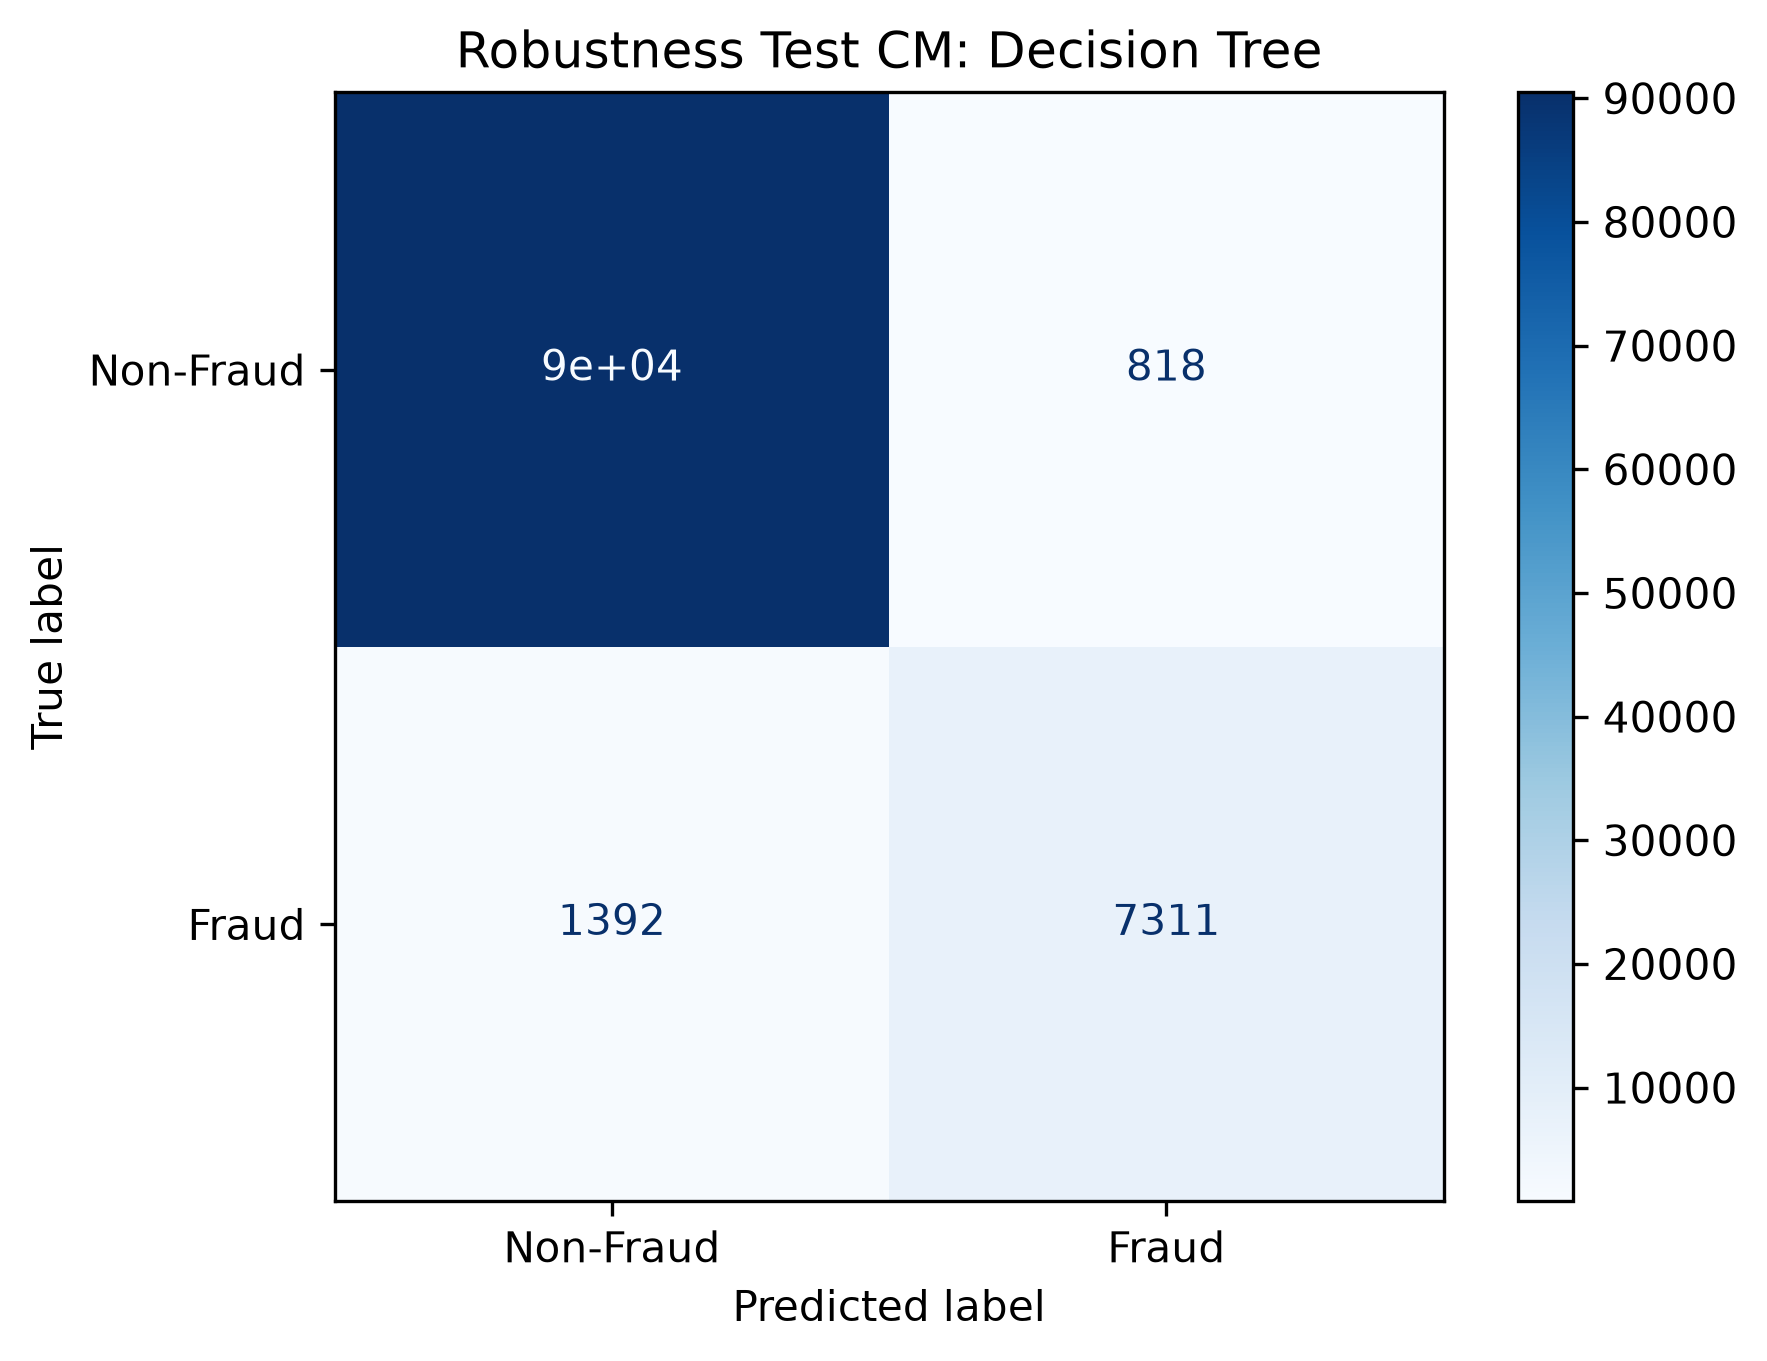
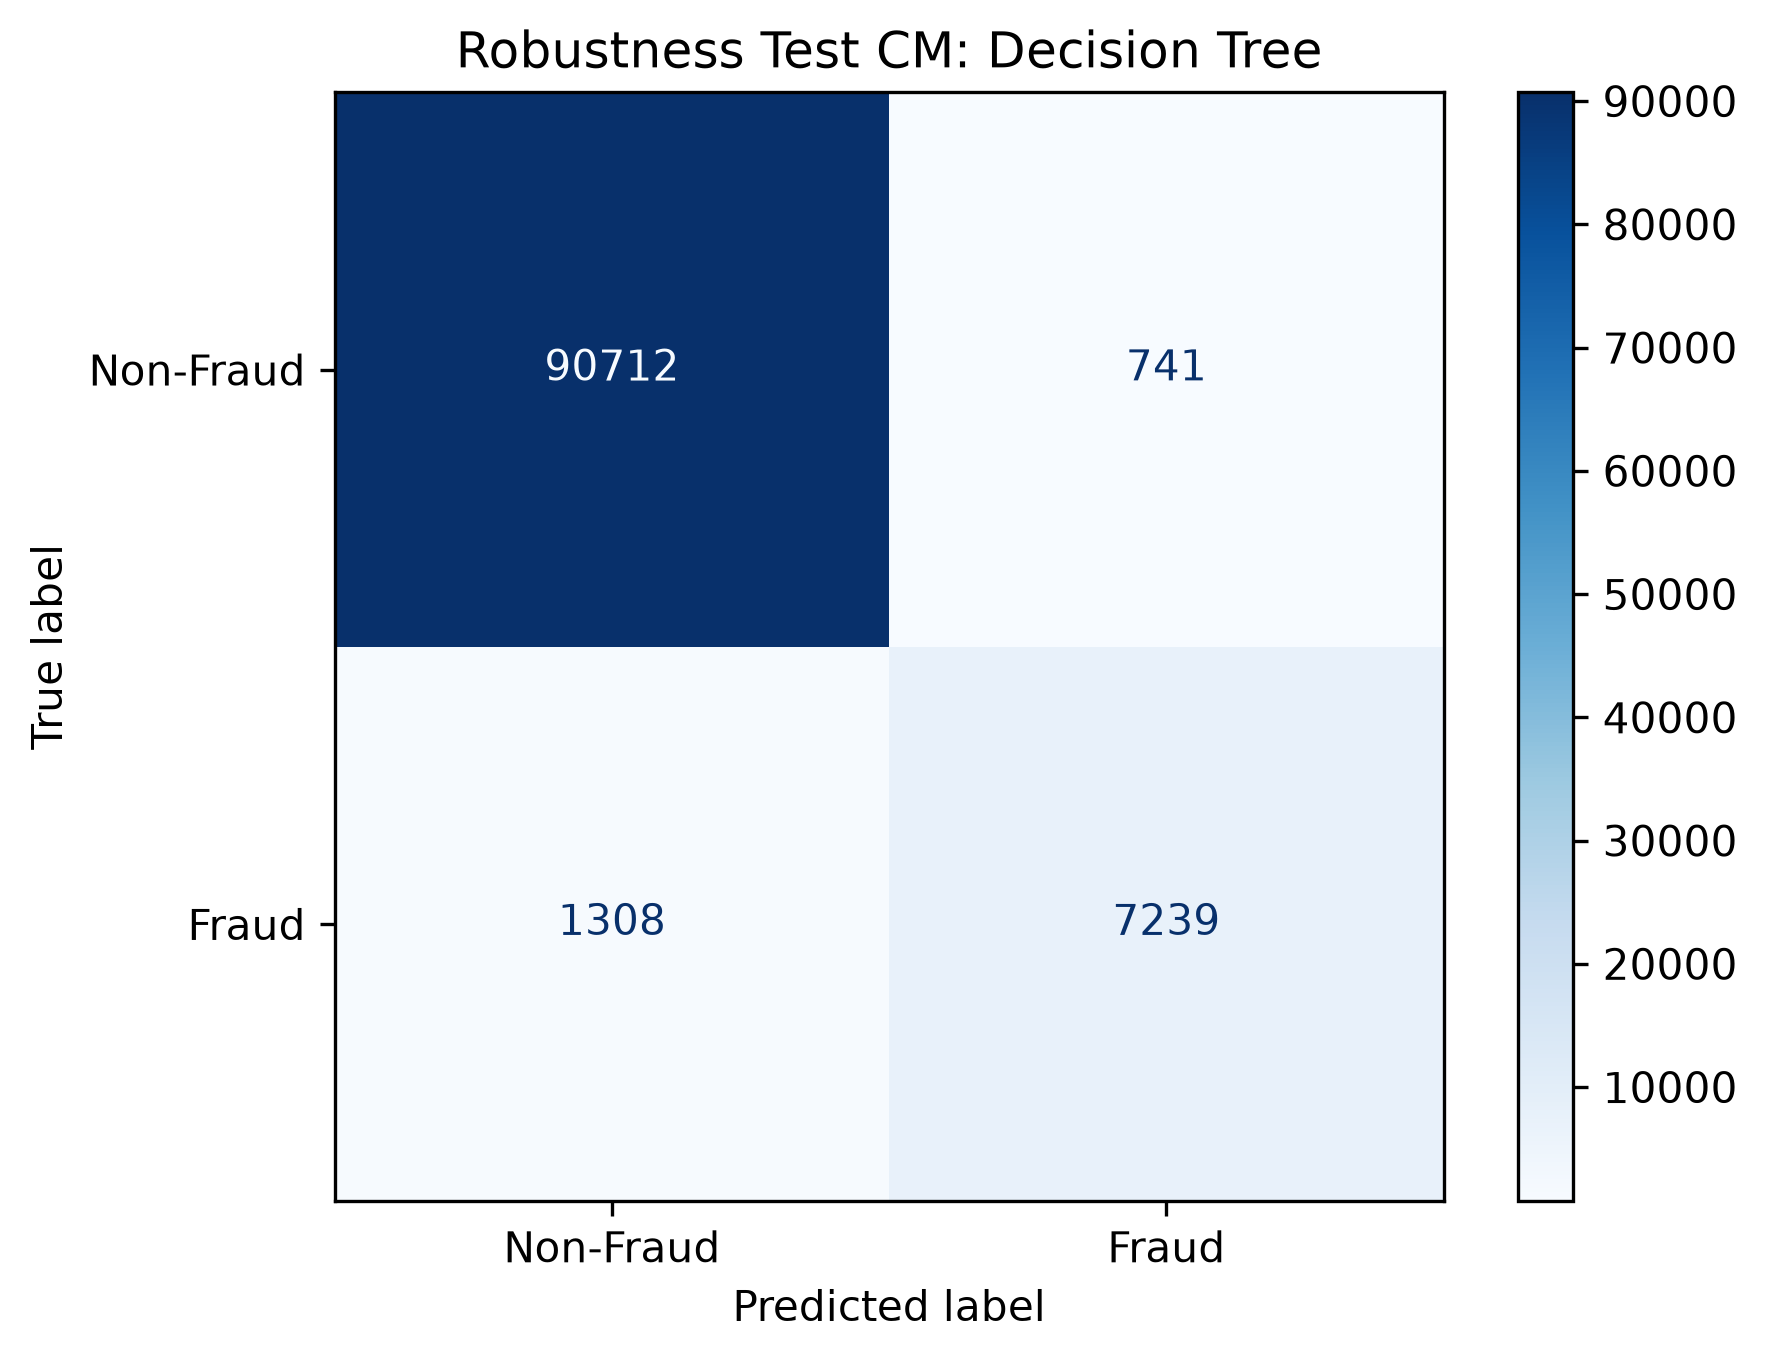
fix

diff --git a/robustness_test.py b/robustness_test.py
@@ -67,19 +67,28 @@ def evaluate(model_name, X, y_true, scaler):
 
 def main():
     print("Memuat dataset asli Kaggle...")
-    # Menggunakan sampel 100.000 agar komputasi tidak terlalu lama tapi sangat valid secara statistik (p-value kuat)
-    df = pd.read_csv('data/kaggle_card_transdata.csv').sample(n=100000, random_state=42)
+    df = pd.read_csv('data/kaggle_card_transdata.csv')
     
+    # REVISI KRUSIAL: Melakukan split data sama persis seperti saat training di notebook (random_state=123)
+    # Ini memastikan TIDAK ADA KEBOCORAN DATA (data leakage). Model murni diuji pada data yang belum pernah dilihat.
+    from sklearn.model_selection import train_test_split
+    _, test_df = train_test_split(df, test_size=0.2, random_state=123)
+    
+    # Boleh di-sample agar cepat, asalkan HANYA dari test_df (data uji murni)
+    if len(test_df) > 100000:
+        test_df = test_df.sample(n=100000, random_state=42)
+    
+    print(f"Menggunakan {len(test_df)} data uji (X_test murni) untuk robustness test...")
     print("Menyuntikkan noise (gangguan) sebesar 10% ke data numerik dan 5% ke data biner...")
-    noisy_df = inject_noise(df, numeric_noise_std=0.10, binary_flip_prob=0.05)
+    noisy_test_df = inject_noise(test_df, numeric_noise_std=0.10, binary_flip_prob=0.05)
     
-    y_true = noisy_df['fraud']
+    y_true = noisy_test_df['fraud']
     
     scaler = load_scaler()
     
     print("\nMulai proses pengujian (Robustness Test)...\n")
-    evaluate("model_random_forest.pkl", noisy_df, y_true, scaler)
-    evaluate("model_decision_tree.pkl", noisy_df, y_true, scaler)
+    evaluate("model_random_forest.pkl", noisy_test_df, y_true, scaler)
+    evaluate("model_decision_tree.pkl", noisy_test_df, y_true, scaler)
     
     print("Pengujian Robustness Selesai.")
 